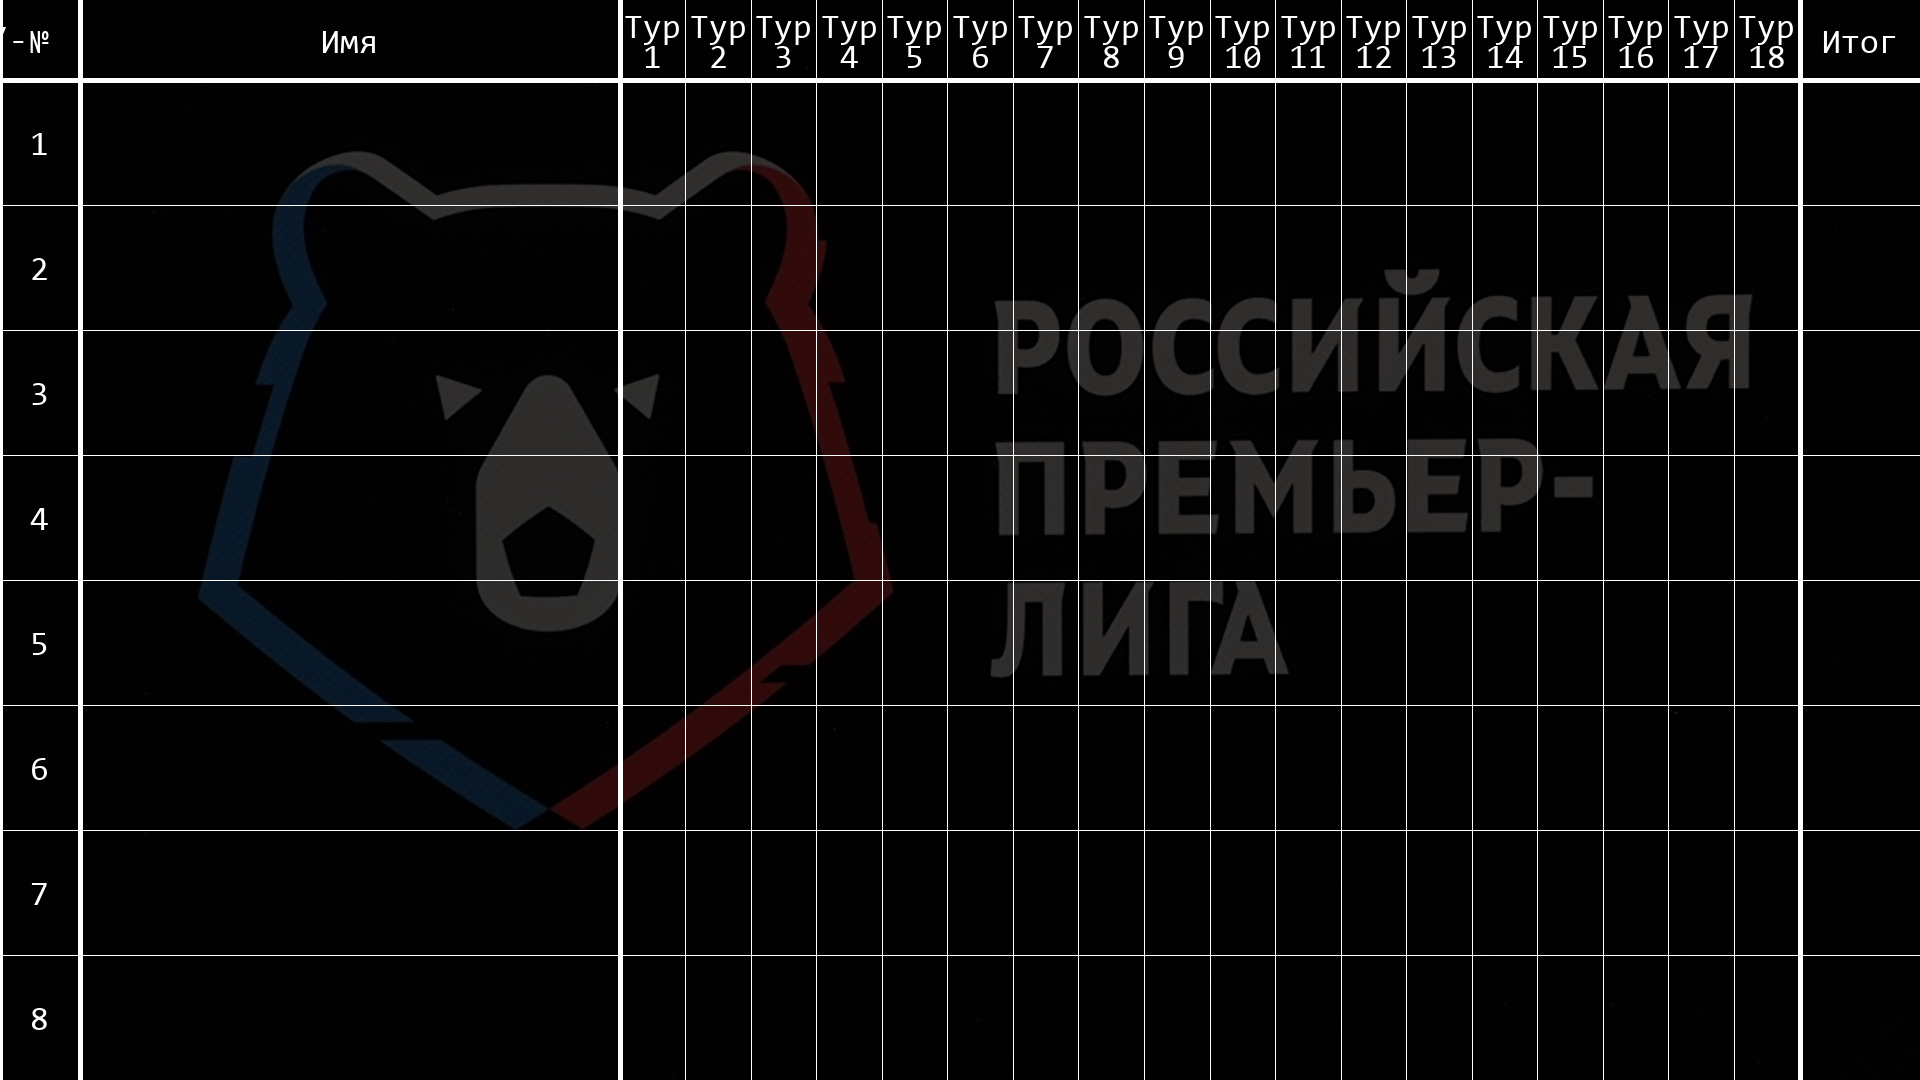
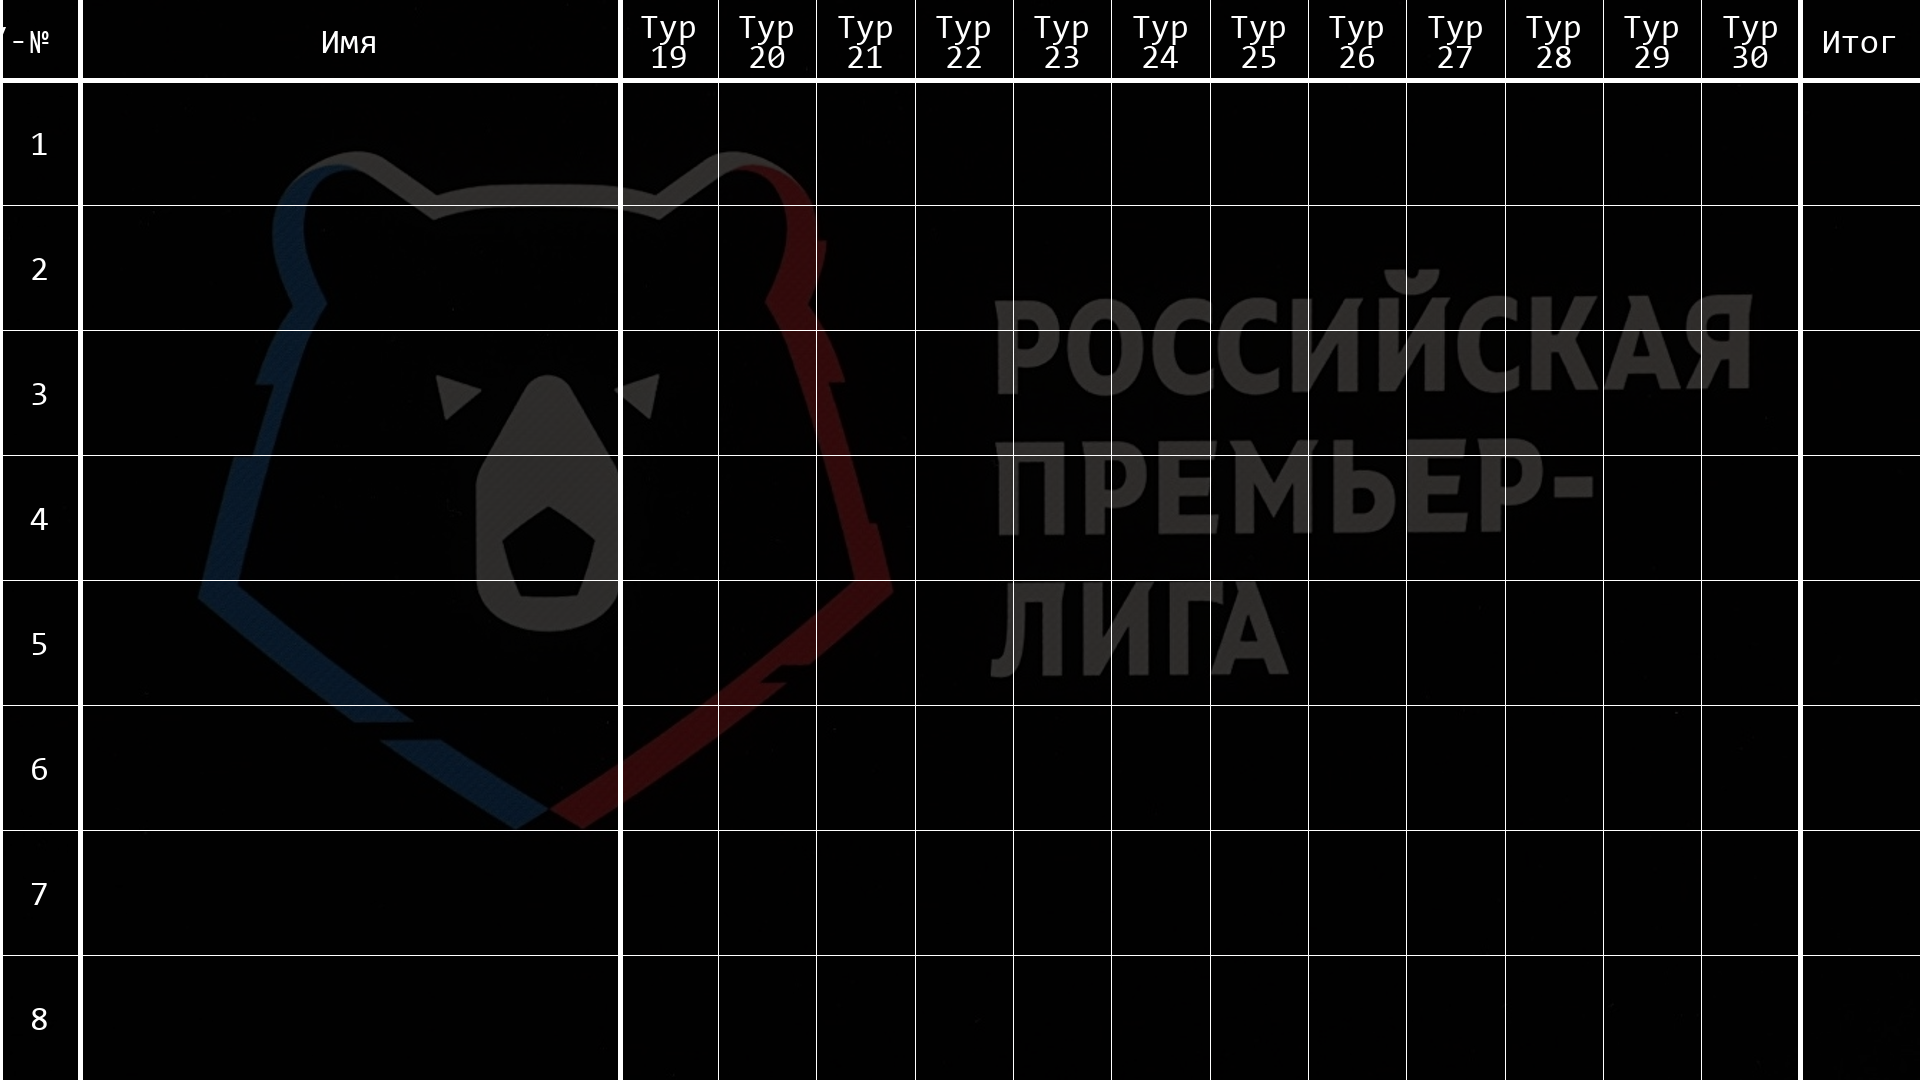
fix image create

Changed region(s): [[0.3125, 0.0, 0.9375, 0.0611]]

diff --git a/libs/template_creator.py b/libs/template_creator.py
@@ -1,5 +1,6 @@
 from PIL import Image, ImageEnhance, ImageDraw, ImageFont
 from libs.markup_table import Main_table_markup, Points_tour_markup, Result_tour_markup
+from config import config
 
 
 class TemplateCreator: 
@@ -113,7 +114,7 @@ class TemplateCreator:
 
         for i in range(1, self.number_of_tour + 1):
             imdraw.line((markup.tours_size["x"] + tours_dx * i, 0, markup.tours_size["x"] + tours_dx * i, markup.image_height))
-            self.drawtext(imdraw, markup.tours_size["x"] + tours_dx * (i - 1), 0, tours_dx, markup.head_size, "Тур\n" + str(i))
+            self.drawtext(imdraw, markup.tours_size["x"] + tours_dx * (i - 1), 0, tours_dx, markup.head_size, "Тур\n" + str(i + config.start_tour - 1))
 
         self.drawtext(imdraw, markup.place_size["x"], 0, markup.place_size["dx"], markup.head_size, "№")
         self.drawtext(imdraw, markup.name_size["x"], 0, markup.name_size["dx"], markup.head_size, "Имя")

diff --git a/main.py b/main.py
@@ -1,13 +1,15 @@
 from loader import bot
+from config import config
+from keyboards.reply.reply_keyboards import get_main_menu_keyboard
 import handlers
 
 
-# if __name__ == '__main__':
-#     while True:
-#         try:
-#             bot.polling(none_stop=True)
-#         except Exception as exc:
-#             bot.send_message(config.ADMIN_ID, exc, reply_markup=my_marcup.main_menu_marcup())
-# 
+if __name__ == '__main__':
+    while True:
+        try:
+            bot.polling(none_stop=True)
+        except Exception as exc:
+            bot.send_message(config.ADMIN_ID, exc, reply_markup=get_main_menu_keyboard())
 
-bot.polling(non_stop=True)
+
+# bot.polling(non_stop=True)

diff --git a/image_fillers/main_table_filler.py b/image_fillers/main_table_filler.py
@@ -27,7 +27,7 @@ class MainTableFiller(ImageFiller):
             points = self.database.get_main_points_per_tour(player_id, tour)
             if tour > current_tour + 1:
                 points = "-"
-            self.fill_points(row, tour, str(points))
+            self.fill_points(row, tour - 1, str(points))
         self.fill_sum_points(row, str(sum_points))
         
     def fill_name(self, row, nickname):

diff --git a/handlers/user/update.py b/handlers/user/update.py
@@ -1,6 +1,6 @@
 from loader import bot, tournament
 
-@bot.message_handler(commands=["update"])
+@bot.message_handler(regexp="^Обновить$")
 def update(message):
     tournament.update_matches_result()
     tournament.update_forecasts()
